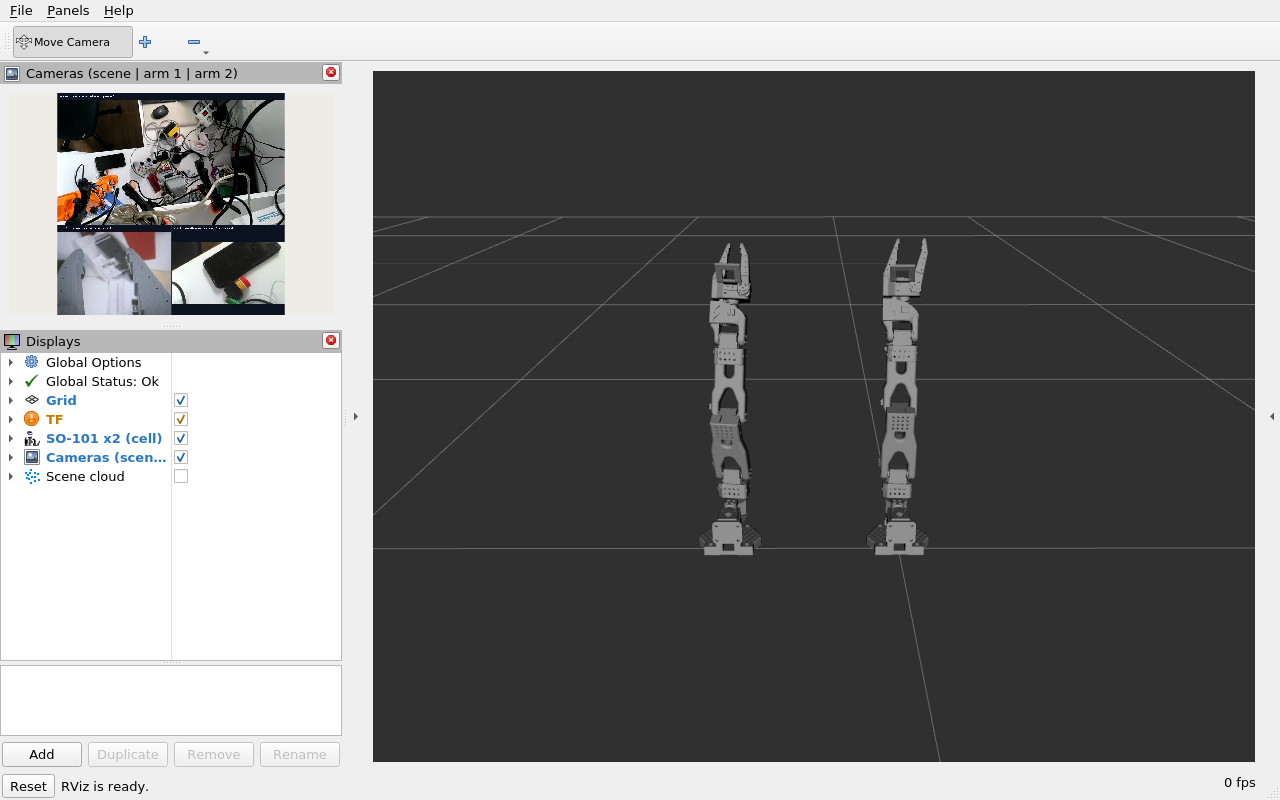
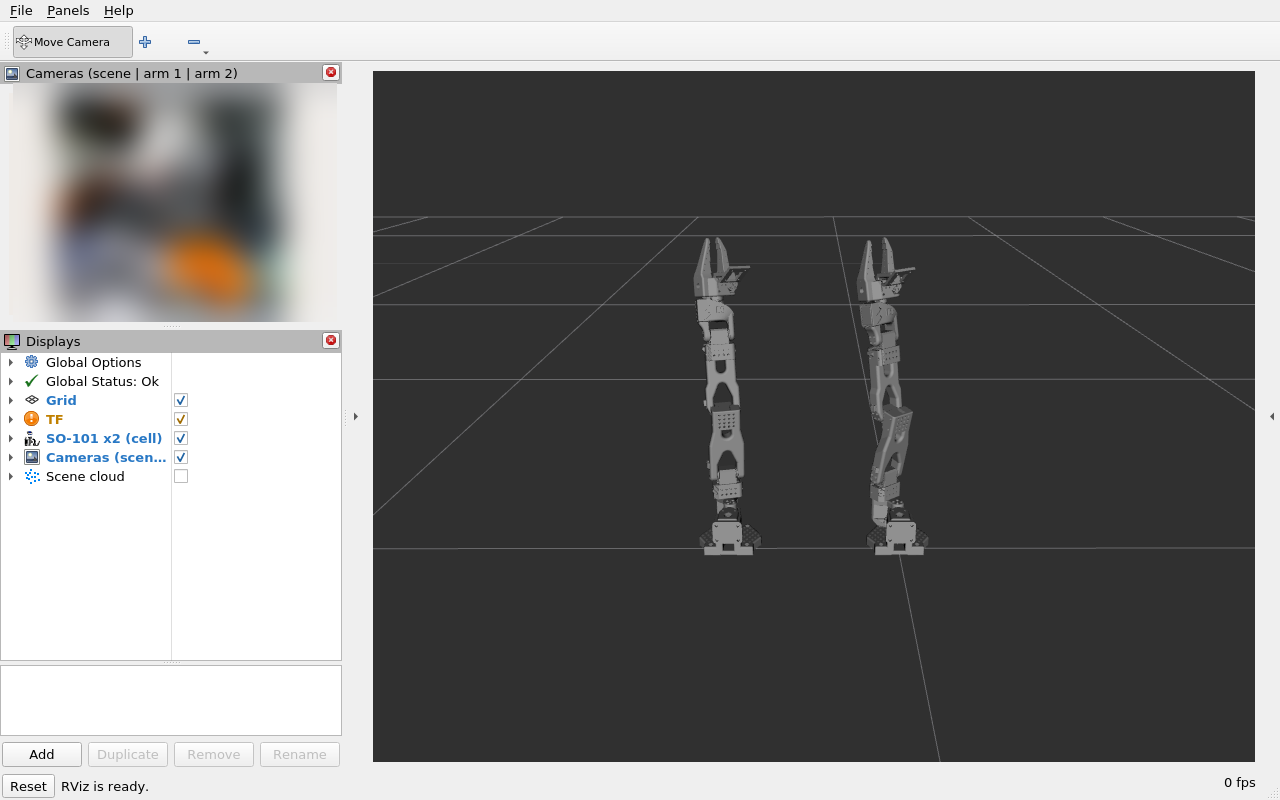
docs(figures): new RViz capture, the Temp and Gripper Cams tabs, a real wrist frame
- docs/two-arms-rviz.png and docs/web-rviz.jpg replaced by one capture of the live window: both
  arms as a single model (SO-101 x2 (cell), status Ok) and the composed camera panel, blurred for
  the public repo
- new docs/web-temp.png and docs/web-gripper.png, in the tabs table
- docs/wrist-camera.png is now a real frame of /gripper/image/compressed (640x480, the sharpest of
  93 consecutive frames of that stream), not a blurred placeholder
- docs/twin-two-arms.png and its caption dropped: the operator-PC capture already shows the twin

Changed region(s): [[0.0, 0.0938, 0.25, 0.4062], [0.6562, 0.2812, 0.75, 0.6562], [0.5312, 0.2812, 0.5938, 0.6562]]

diff --git a/README.md b/README.md
@@ -737,8 +737,10 @@ the renamed **Gripper Cams** tab and its Arm 1 / Arm 2 selector for the single-a
 | **Terminal Xavier NX** — a shell on the **Xavier host**: `docker ps` shows the cell's containers | **Stereo Cams & Depth OAK-D** — four panels: the rectified pair, the depth map and its confidence (the mono views blurred here) |
 | ![Point Cloud tab](docs/web-pointcloud.jpg) | ![Graph tab](docs/web-graph.jpg) |
 | **Point Cloud OAK-D** — the cloud in 3D, opening top-down on the bench; drag to orbit | **Graph** — rqt_graph: who publishes what to whom |
-| ![RViz tab](docs/web-rviz.jpg) | |
-| **RViz** — the arm at its live pose (SO-101 model), the scene colour camera and the wrist camera (both blurred here) | |
+| ![RViz tab](docs/web-rviz.jpg) | ![Temp tab](docs/web-temp.png) |
+| **RViz** — both arms as one model at their live poses (`SO-101 x2 (cell)`, status *Ok*), and the composed camera panel on the left (blurred here) | **Temp Xavier NX** — every kernel thermal zone, hottest first, with the peak and a four-minute trace |
+| ![Gripper Cams tab](docs/web-gripper.png) | |
+| **Gripper Cams** — the active jaw camera with its live sharpness score, the Arm 1 / Arm 2 selector and the distance marks that write to the CSV | |
 
 **Depth and confidence are not in RViz — they are in the Stereo tab.** This board has no GPU path
 for Qt, so RViz draws with *llvmpipe*, a software renderer that uses the CPU. Every image panel
@@ -911,10 +913,6 @@ Twin troubleshooting:
 The same twin mirrors **both** arms when the scene holds both of them. MuJoCo has no "instance", so
 the scene is generated: the arm is copied, every id of the copy is prefixed `arm2_`, and the copy is
 rooted at **(0, +0.30, 0)** — the number R3 fixes, the same one `tf2_echo base arm2_base` reports.
-
-![Both arms in MuJoCo](docs/twin-two-arms.png)
-
-*The generated scene rendered offscreen on the Xavier: two SO-101s, 30 cm apart, on the shared floor.*
 
 On the PC, once, next to the Menagerie clone:
 
@@ -1310,9 +1308,10 @@ still has to change by moving the arm, not the camera.
 
 ![The wrist feed in the browser](docs/wrist-camera.png)
 
-*`/gripper/image/compressed` as it arrives today, with the camera on the moving jaw: 640x480 at
-10 Hz, seen at `:8090/gripper/stream`. Blurred on purpose — it is the pipeline, not the final view;
-the focus is only proved once the procedure above has been run and its CSV kept.*
+*One frame of `/gripper/image/compressed` exactly as it arrives (640x480, 10 Hz), the sharpest of 93
+consecutive frames of the live stream, taken 2026-11-14 with the arm at rest and the bench behind the
+open jaws. The soft background is the depth of field, not a fault: the jaws themselves are in focus
+where they cross the working plane.*
 
 ### 10.6 The cloud in the colour frame, coloured
 
